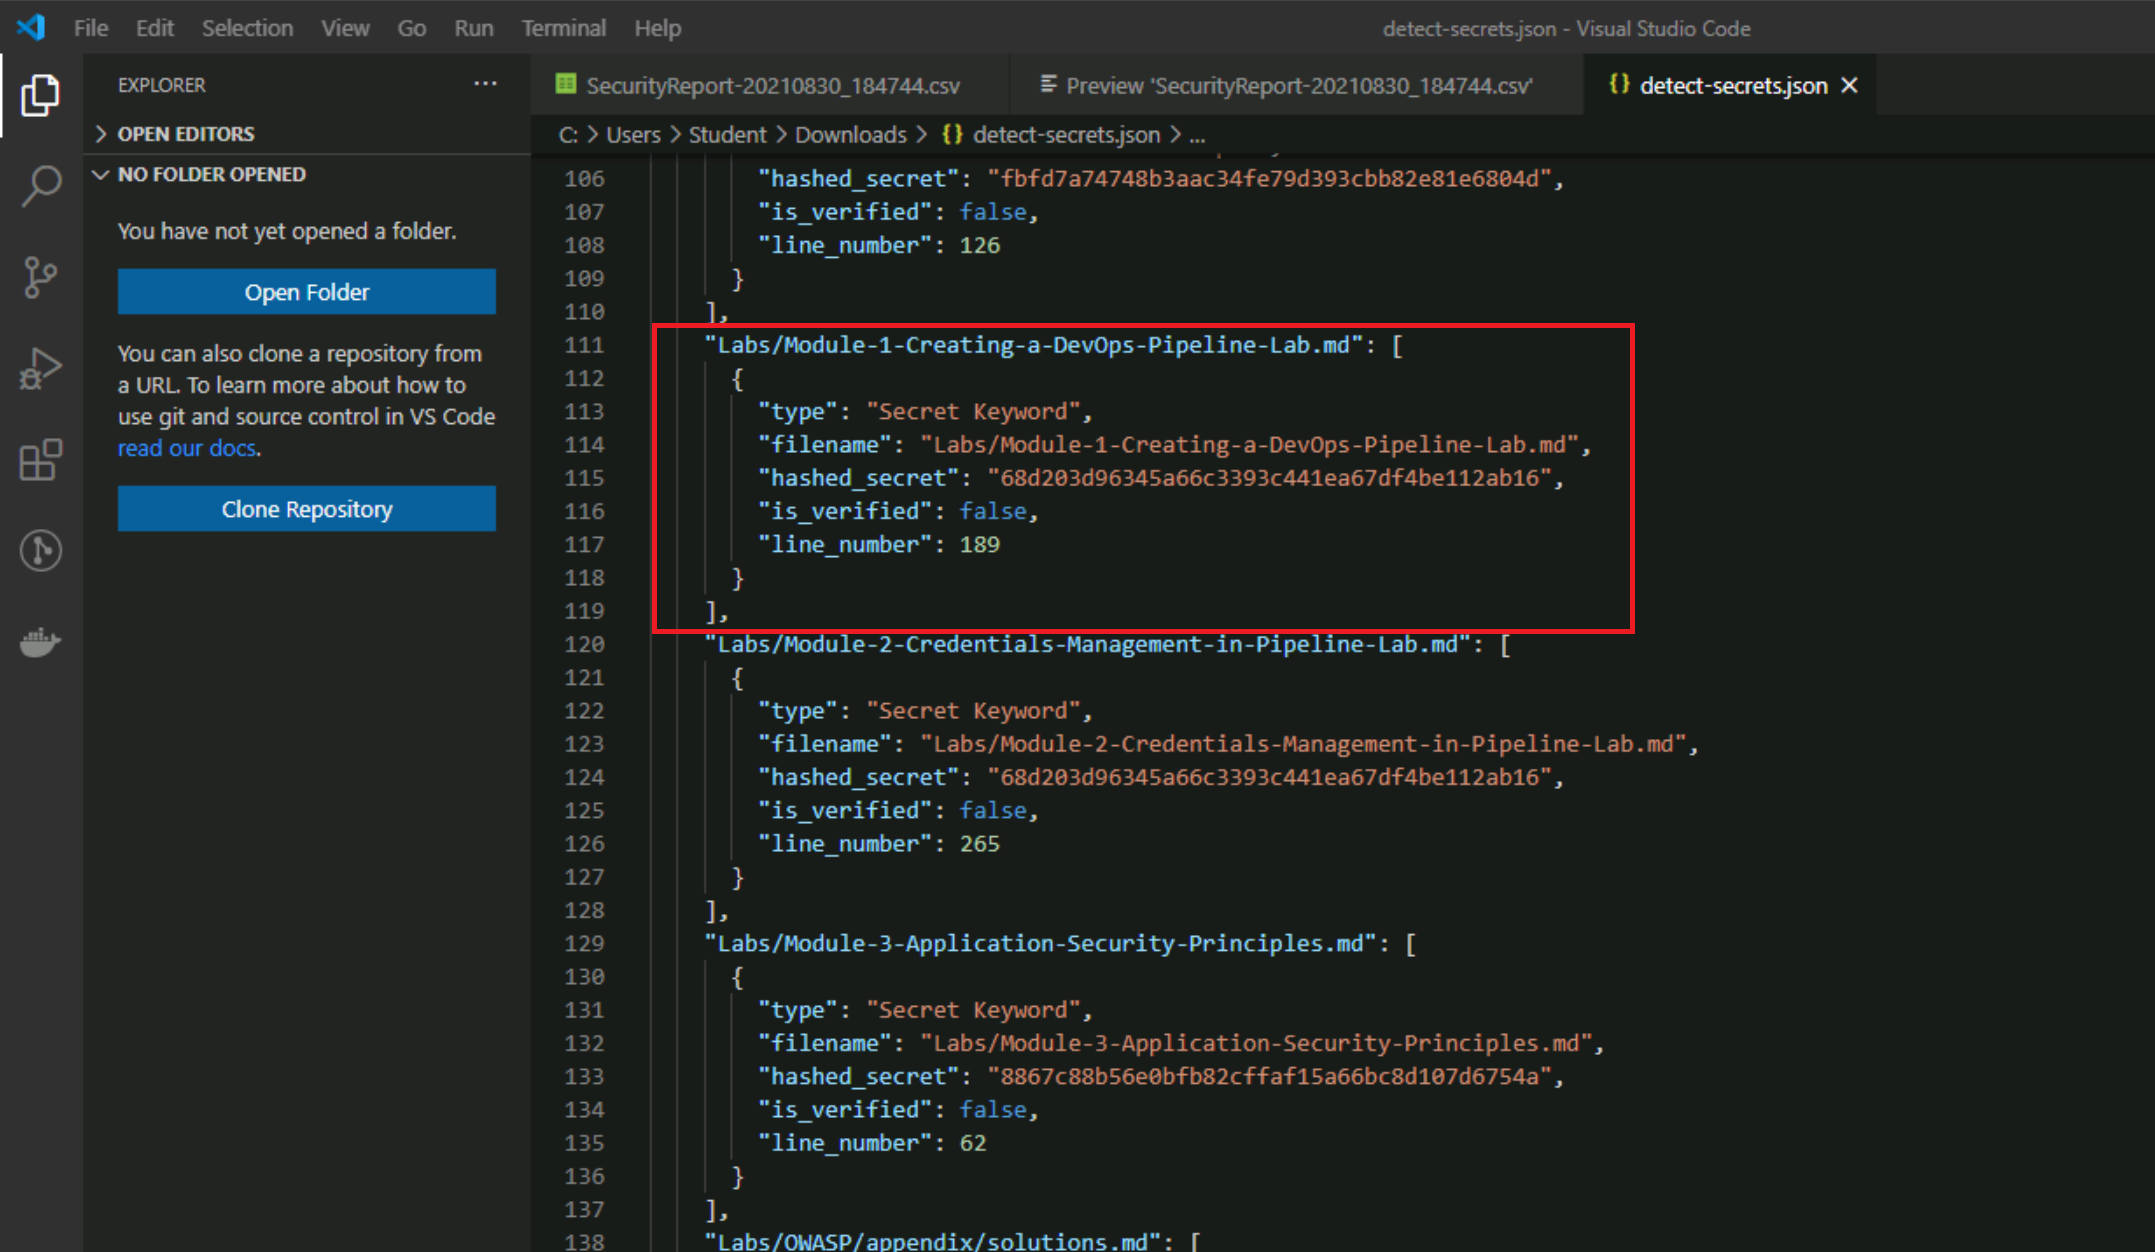
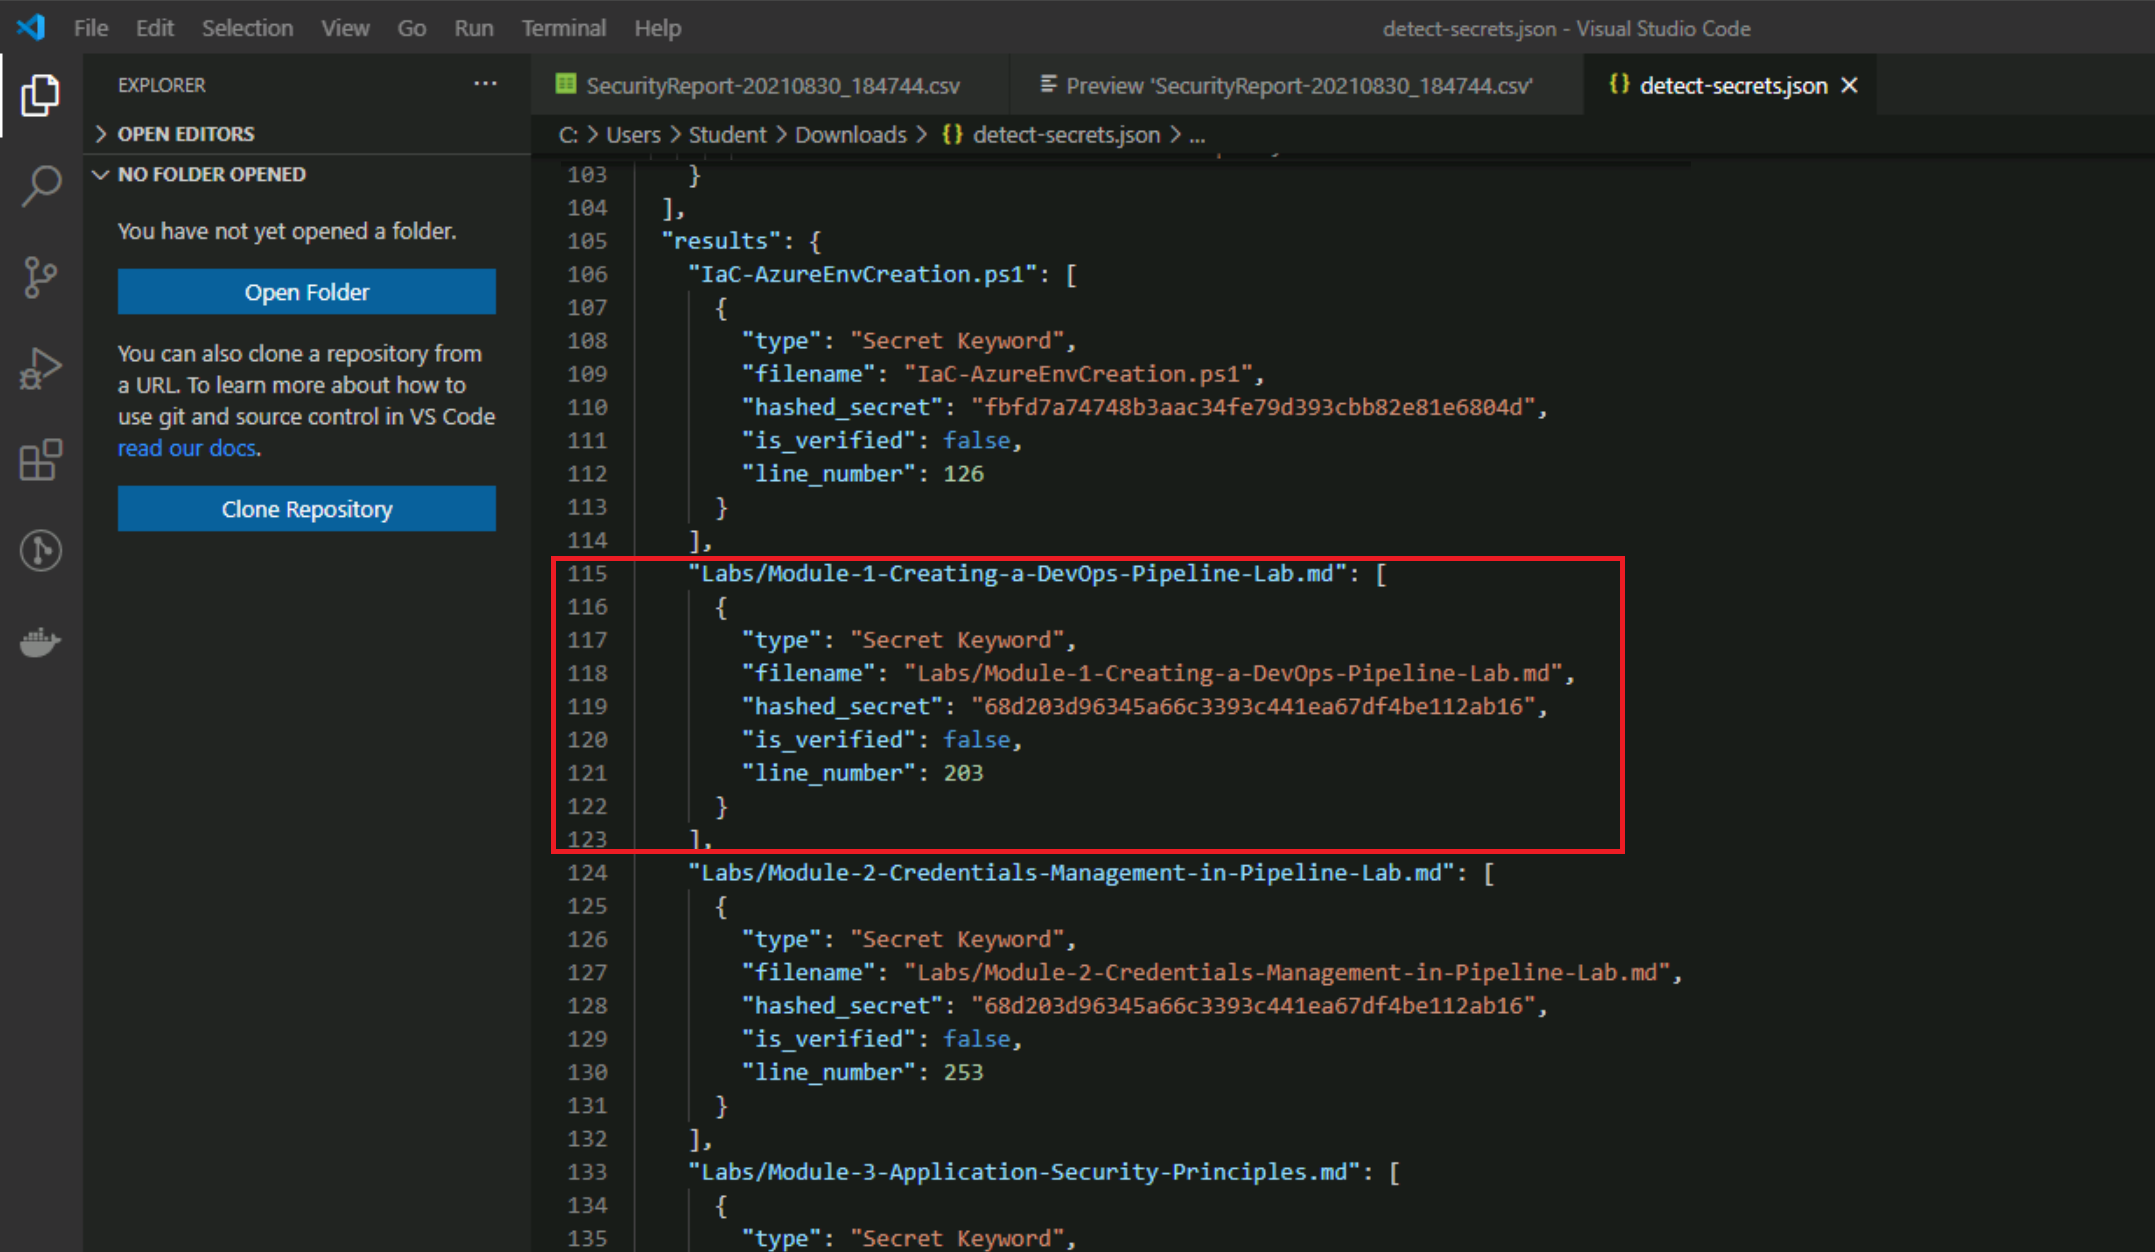
Integrating feedbacks

Changed region(s): [[0.2487, 0.1246, 0.7773, 1.0]]

diff --git a/Labs/Module-4-Automating-a-Secure-and-Compliant-Pipeline.md b/Labs/Module-4-Automating-a-Secure-and-Compliant-Pipeline.md
@@ -396,7 +396,7 @@ However, unlike other similar packages that solely focus on finding secrets, thi
 
     ![](./images/Module4-UsingDetectCredentials4.png  =800x)
 
-    Go to line 111 and observe that the password used on the Lab Module 1 was caught by this tool
+    Go to line 115 and observe that the password used on the Lab Module 1 was caught by this tool
 
     ![](./images/Module4-UsingDetectCredentials5.png  =800x)
 
